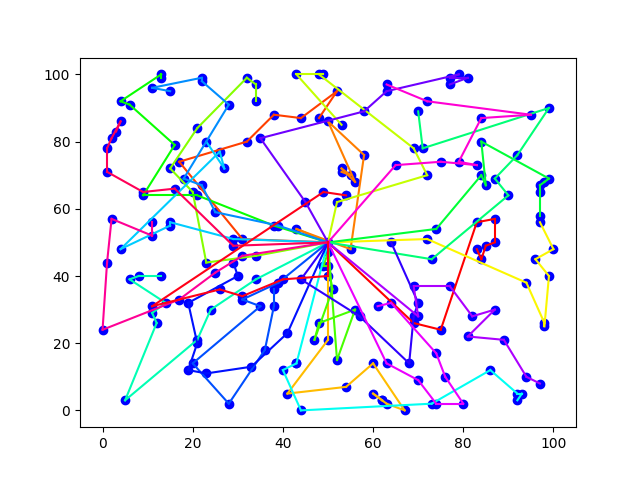
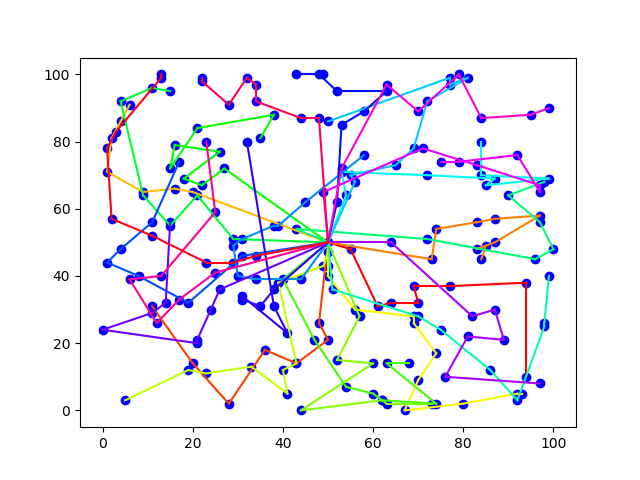
Add no cost node

diff --git a/Solver.py b/Solver.py
@@ -96,6 +96,7 @@ class Solver:
         self.all_nodes = m.all_nodes
         self.service_locations = m.service_locations
         self.depot = m.all_nodes[0]
+        self.no_cost_node = m.all_nodes[201]
         self.time_matrix = m.time_matrix
         self.capacity = m.capacity
         self.total_vehicles = m.total_vehicles
@@ -110,8 +111,9 @@ class Solver:
         solutions = set()
         for i in range(50):
             self.setRoutedFlagToFalseForAllServiceLocations()
-            # self.minimumInsertions(i*20)
-            self.applyNearestNeighborMethod(i * 20)
+            self.minimumInsertions(i)
+            # self.applyNearestNeighborMethod(i)
+            self.addNoCostNode()
             cc = self.sol.time_cost
             if cc in solutions:
                 continue
@@ -127,11 +129,15 @@ class Solver:
             # self.ReportSolution(self.sol)
             # self.LocalSearch(1)
             # self.VND()
-            self.VNDrandom()
+            self.VND()
             if self.overallBestSol == None or self.overallBestSol.time_cost > self.sol.time_cost:
                 self.overallBestSol = self.cloneSolution(self.sol)
             print('Cost: ', cc, ' LS:', self.sol.time_cost, 'BestOverall: ', self.overallBestSol.time_cost)
         SolDrawer.draw('localsearch', self.overallBestSol, self.all_nodes)
+
+    def addNoCostNode(self):
+        for rt in self.sol.routes:
+            rt.sequenceOfNodes.append(self.no_cost_node)
 
     def LocalSearch(self, operator):
         self.bestSolution = self.cloneSolution(self.sol)

diff --git a/VRP_Model.py b/VRP_Model.py
@@ -15,6 +15,7 @@ class Model:
         self.all_nodes = []
         self.service_locations = []
         depot = Node(0, 0, 0, 50, 50)
+        no_cost_node = Node(201, 0, 0, None, None)
         self.capacity = 3000
         self.total_vehicles = 25
         self.all_nodes.append(depot)
@@ -30,7 +31,7 @@ class Model:
             self.all_nodes.append(serv_node)
             self.service_locations.append(serv_node)
 
-        self.time_matrix = [[0.0 for j in range(0, len(self.all_nodes))] for k in range(0, len(self.all_nodes))]
+        self.time_matrix = [[0.0 for j in range(0, len(self.all_nodes) + 1)] for k in range(0, len(self.all_nodes) + 1)]
         for i in range(0, len(self.all_nodes)):
             for j in range(0, len(self.all_nodes)):
                 source = self.all_nodes[i]
@@ -46,6 +47,7 @@ class Model:
                 elif target.type == 3:
                     time += 5 / 12
                 self.time_matrix[i][j] = time
+        self.all_nodes.append(no_cost_node)
 
 class Node:
     def __init__(self, id, tp, dem, xx, yy):
@@ -60,7 +62,7 @@ class Route:
     def __init__(self, dp, cap):
         self.sequenceOfNodes = []
         self.sequenceOfNodes.append(dp)
-        # self.sequenceOfNodes.append(dp)
+        # self.sequenceOfNodes.append(no_cost_node)
         self.time = 0
         self.capacity = cap
         self.load = 0
